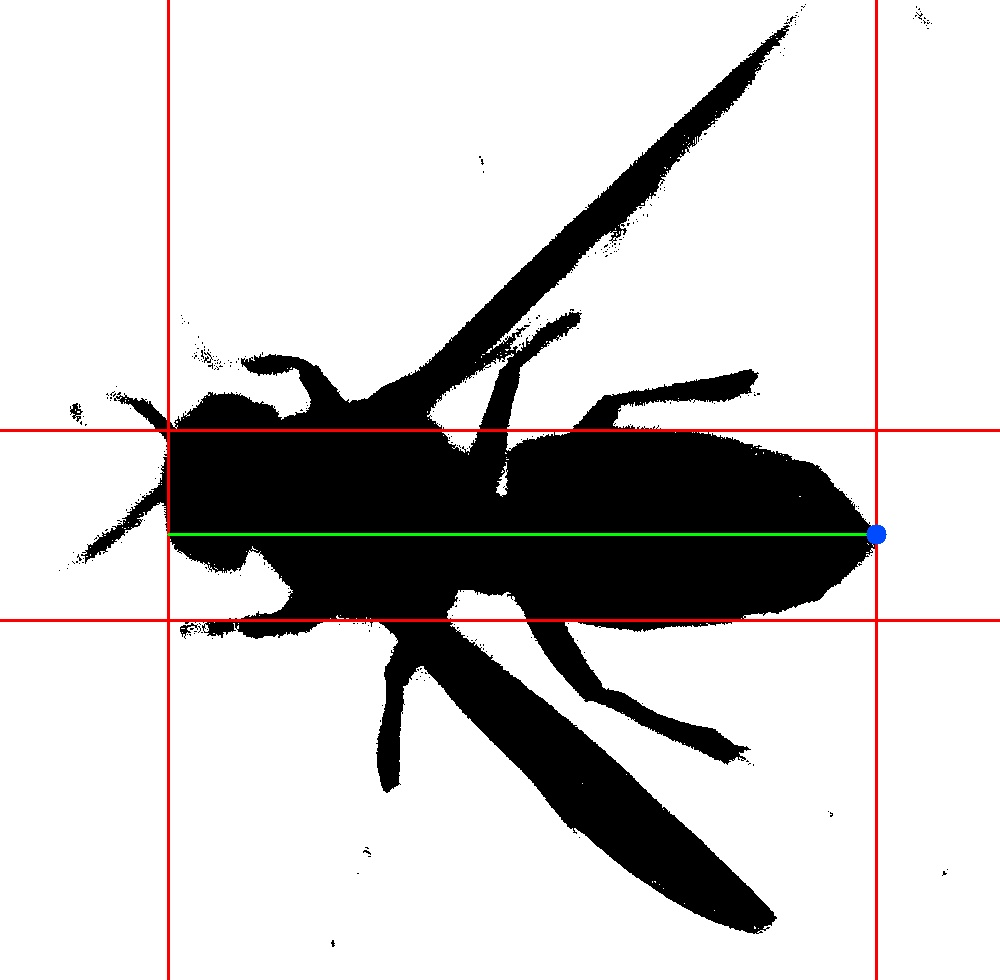
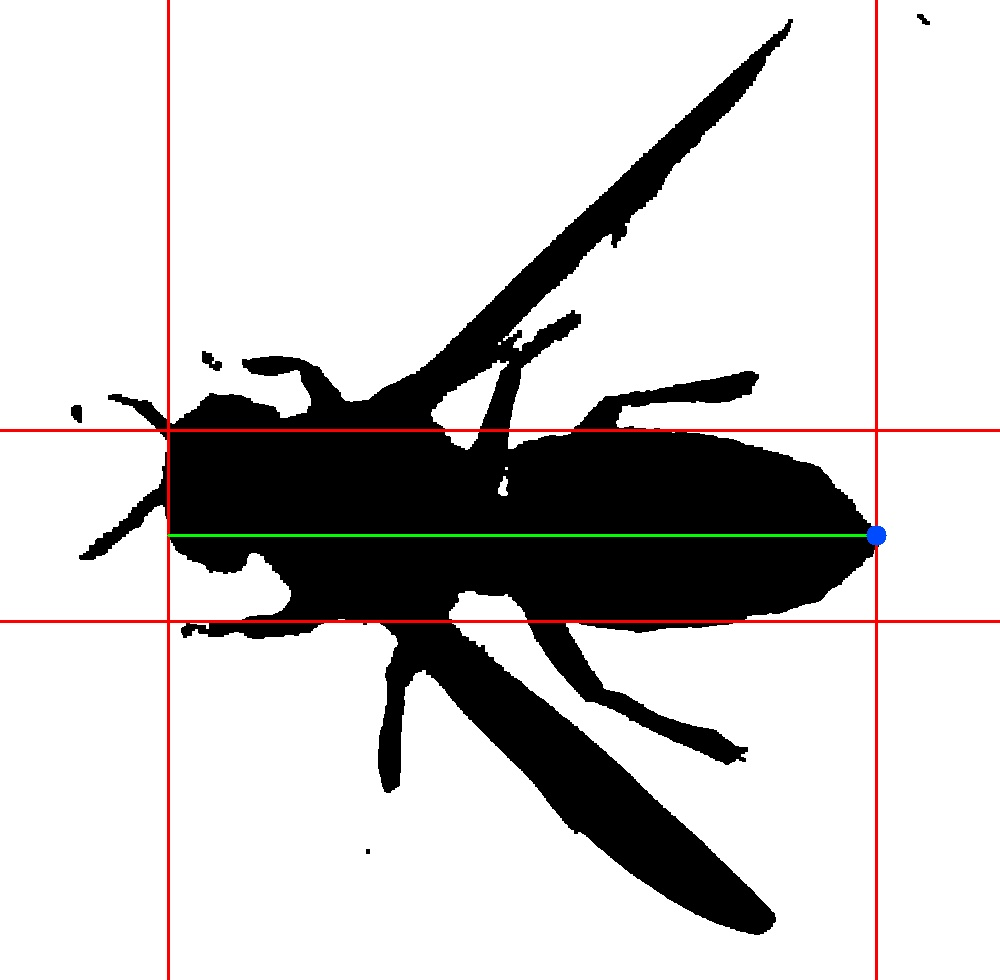
Smooth Operator

diff --git a/Cut_Out/cutout.py b/Cut_Out/cutout.py
@@ -1,44 +1,5 @@
 import numpy as np
 import cv2
-import matplotlib.pyplot as plt
-
-# Should be launch with the terminal by putting the image to analyse in first parameter
-def bgr_to_hsv(rgb : tuple) -> tuple:
- 
-    # R, G, B values are divided by 255
-    # to change the range from 0..255 to 0..1:
-    b, g, r = rgb[0]/255.0, rgb[1]/255.0, rgb[2]/255.0
- 
-    # h, s, v = hue, saturation, value
-    cmax = max(r, g, b)    # maximum of r, g, b
-    cmin = min(r, g, b)    # minimum of r, g, b
-    diff = cmax-cmin       # diff of cmax and cmin.
- 
-    # if cmax and cmax are equal then h = 0
-    if cmax == cmin:
-        h = 0
-     
-    # if cmax equal r then compute h
-    elif cmax == r:
-        h = (60 * ((g - b) / diff) + 360) % 360
- 
-    # if cmax equal g then compute h
-    elif cmax == g:
-        h = (60 * ((b - r) / diff) + 120) % 360
- 
-    # if cmax equal b then compute h
-    elif cmax == b:
-        h = (60 * ((r - g) / diff) + 240) % 360
- 
-    # if cmax equal zero
-    if cmax == 0:
-        s = 0
-    else:
-        s = (diff / cmax) * 100
- 
-    # compute v
-    v = cmax * 100
-    return h, s, v
 
 def cutout(filename : str) -> np.ndarray:
     # Loading images
@@ -50,31 +11,30 @@ def cutout(filename : str) -> np.ndarray:
     img_GREY = cv2.cvtColor(img, cv2.COLOR_BGR2GRAY)
     img_HSV = cv2.cvtColor(img, cv2.COLOR_BGR2HSV)
     
-    light_yellow_BGR, dark_yellow_BGR = (130, 240, 250), (50, 170, 180) #RGB values for yellow
-    light_yellow_HSV, dark_yellow_HSV = bgr_to_hsv(light_yellow_BGR), bgr_to_hsv(dark_yellow_BGR) #HSV values for yellow
-    
-    print (light_yellow_HSV, dark_yellow_HSV)
-    
+    color1 = (10, 200, 20)  #Darker Yellow to keep
+    color2 = (45, 255, 255)  #Lighter Yellow to keep
+
     # Creating the main mask
     
     mask = cv2.threshold(img_GREY, 90, 255, cv2.THRESH_BINARY)
     
     # Creating a mask for the yellow color in the image
-    
-    temp_mask2 = cv2.inRange(img_HSV, dark_yellow_HSV, light_yellow_HSV)
+    temp_mask2 = cv2.inRange(img_HSV, color1, color2)
     mask2 = cv2.bitwise_not(temp_mask2)
     
     # Combining the two masks
     
     combined_mask = cv2.bitwise_and(mask[1], mask2)
     
-    print(combined_mask.shape)
-    print(cv2.countNonZero(combined_mask))
-    cv2.imshow("Mask", combined_mask)
+    # Getting rid of artifacts
+    intermediate_smoothed_mask = cv2.morphologyEx(combined_mask, cv2.MORPH_OPEN, cv2.getStructuringElement(cv2.MORPH_RECT, (3, 3)))
+    smoothed_mask = cv2.morphologyEx(intermediate_smoothed_mask, cv2.MORPH_CLOSE, cv2.getStructuringElement(cv2.MORPH_RECT, (4, 4)))
+    
+    cv2.imshow("Mask", smoothed_mask)
     cv2.waitKey(0)
     cv2.destroyAllWindows()
     
     
-    cv2.imwrite("Footage/17_cutout.jpg", mask[1])
+    cv2.imwrite("Footage/17_cutout.jpg", smoothed_mask)
     
-    return mask[1]
+    return smoothed_mask

diff --git a/Footage/main.py b/Footage/main.py
@@ -1,0 +1,12 @@
+import cv2
+import time
+
+if __name__ == '__main__':
+    timestrat = time.process_time()
+    img = cv2.imread('15_cutout.jpg', cv2.IMREAD_GRAYSCALE)
+    #smooth = cv2.erode(img, cv2.getStructuringElement(cv2.MORPH_RECT, (3, 3)), img)
+    img_o = cv2.morphologyEx(img, cv2.MORPH_OPEN, cv2.getStructuringElement(cv2.MORPH_RECT, (3, 3)))
+    img_c = cv2.morphologyEx(img_o, cv2.MORPH_CLOSE, cv2.getStructuringElement(cv2.MORPH_RECT, (4, 4)))
+    end = time.process_time()
+    t = end - timestrat
+    print(t , "s")
